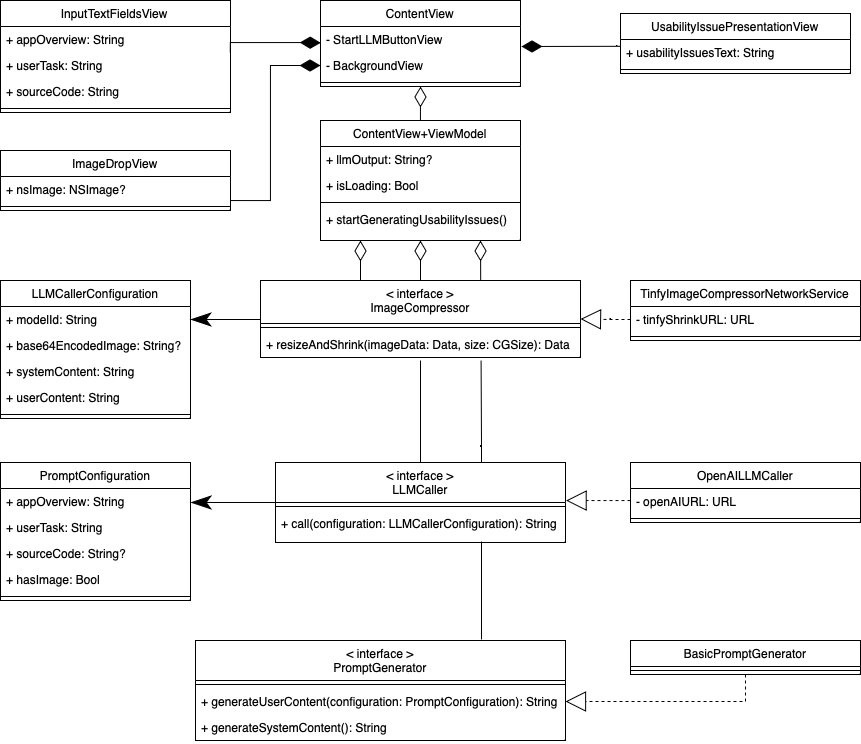
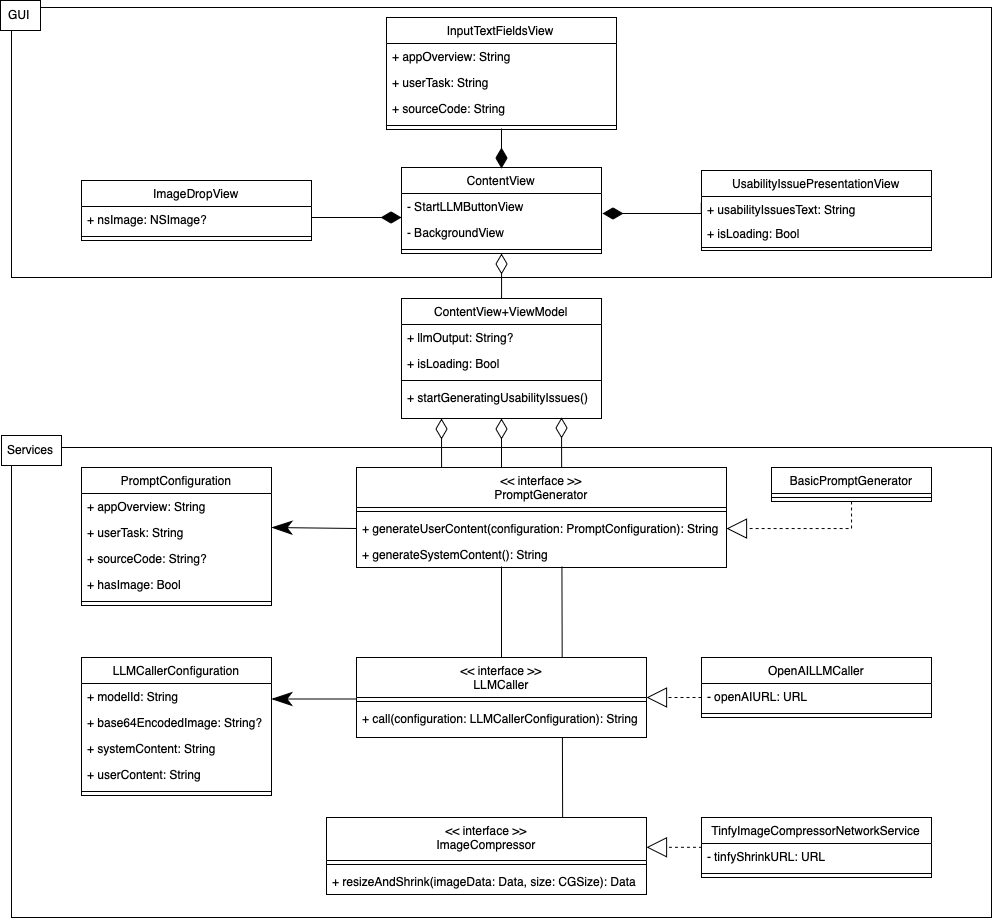
Adjust UML Class Diagram and write out implementation chapter in readMe

diff --git a/README.md b/README.md
@@ -1,8 +1,8 @@
 # UX-LLM
 
-![Demo Animation](ReadMeResources/Demo.gif)
+UX-LLM is a prototype application that predicts usability issues for a view of an iOS app. For instance, in the case of a simple registration view, UX-LLM might predict the lack for visual hints about the password's complexity requirements. 
 
-UX-LLM is a prototype application that predicts usability issues for a specific view of an iOS app. For instance, in the case of a simple registration view, UX-LLM might predict the lack for visual hints about the password's complexity requirements. 
+![Demo Animation](ReadMeResources/Demo.gif)
 
 UX-LLM takes three inputs: app context, source code, and an image of the view.    
 The context description consists of two texts: a brief overview of the app, and the user's task, which describes the interaction within the analyzed view. For instance, when looking at a meditation app, the overview could be 'A meditation app focused on enhancing stress relief and wellness.' When analyzing the progress tracking view, the user's task could be 'reviewing their meditation history and achieved milestones.'
@@ -12,20 +12,22 @@ This three inputs are packaged into a prompt and send to an LLM.
 Finally, the output is a list of ten predicted usability issues with their rationale for the analyzed view.
 
 ## Usage
-Just open the Xcode project, put in a ```openAIKey``` & ```tinyPNGkey``` into the ```LocalConfiguration``` file and start the Mac app.
+Just open the Xcode project, put in a ```openAIKey``` & ```tinyPNGkey``` into the ```LocalConfiguration``` file and run the app.
 
 ## Implementation
-UX-LLM is a macOS application written in SwiftUI. The current LLM implemented is the state-of-the-art GPT-4 Turbo with vision of OpenAI[^1]. For compressing images, TinyPNG's API[^2] is used. The shader animation while loading is from the project Inferno by twostraws[^3].
+UX-LLM is a macOS application developed using SwiftUI. The incorporated LLM is the state-of-the-art GPT-4 Turbo with vision capabilities from OpenAI[^1]. For image compression, it uses TinyPNG's API[^2]. The shader animation during loading is sourced from the 'Inferno' project by twostraws[^3].
 
 #### Prompt Engineering
-The system role content:
+OpenAI's API accepts a list of messages as input for the LLM. UX-LLM utilizes two types of messages: one for the system and another for user input. The system message provides high-level instructions on the model's expected behavior. Conversely, the user message is assembled using the information provided by the user about their app view. Generally, I've attempted to adopt Prompt Engineering methods from OpenAI's Documentation[^4], such as instructing the model to adopt a persona. However, there is room for improvement as this tool represents the first prototype.
+
+System content:
 
 ```
 You are a UI/UX expert for mobile apps. Your task is to identify 10 usability issues with the information you get for an app view.
 Enumerate the problems identified; add an empty paragraph after each enumeration; no preceding or following text."
 ```
 
-The user content:
+User content:
 ```
 var base = 
 """
@@ -52,10 +54,12 @@ if let sourceCode = configuration.sourceCode {
 [^1]: https://platform.openai.com/docs/models/gpt-4-and-gpt-4-turbo
 [^2]: https://tinypng.com
 [^3]: https://github.com/twostraws/Inferno
+[^4]: https://platform.openai.com/docs/guides/prompt-engineering/strategy-write-clear-instructions
+[^5]: https://en.wikipedia.org/wiki/Bridge_pattern
 
 #### Architecture 
 
-Below is a UML Class diagram of UX-LLM. It is simplified, especially when considering the implenentation of the SwiftUI MVVM architecture. The focus here is on the service layers of UX-LLM, which operate through interfaces and concrete implementations of them.
+Below is a simplified UML Class diagram of UX-LLM. The diagram particularly abstracts the complexity of the SwiftUI MVVM architecture by condensing the GUI layer and modeling combinations of views and their ```ViewModel```s as one. The primary focus is on the service layer of UX-LLM, which operates using the Bridge pattern[^5]. The three services ```PromptGenerator```, ```LLMCaller```, and ```ImageCompressor``` are abstracted from their actual implementation, allowing the system to vary independently from the concrete services it uses. This approach enables UX-LLM to easily adapt to different LLMs or services without significant changes to the system's core architecture. Additionally, the use of the Bridge pattern has simplified GUI testing by enabling the substitution of Mock objects for actual services.
 
 ![UML Class Diagram](ReadMeResources/ClassDiagram.png)
 
